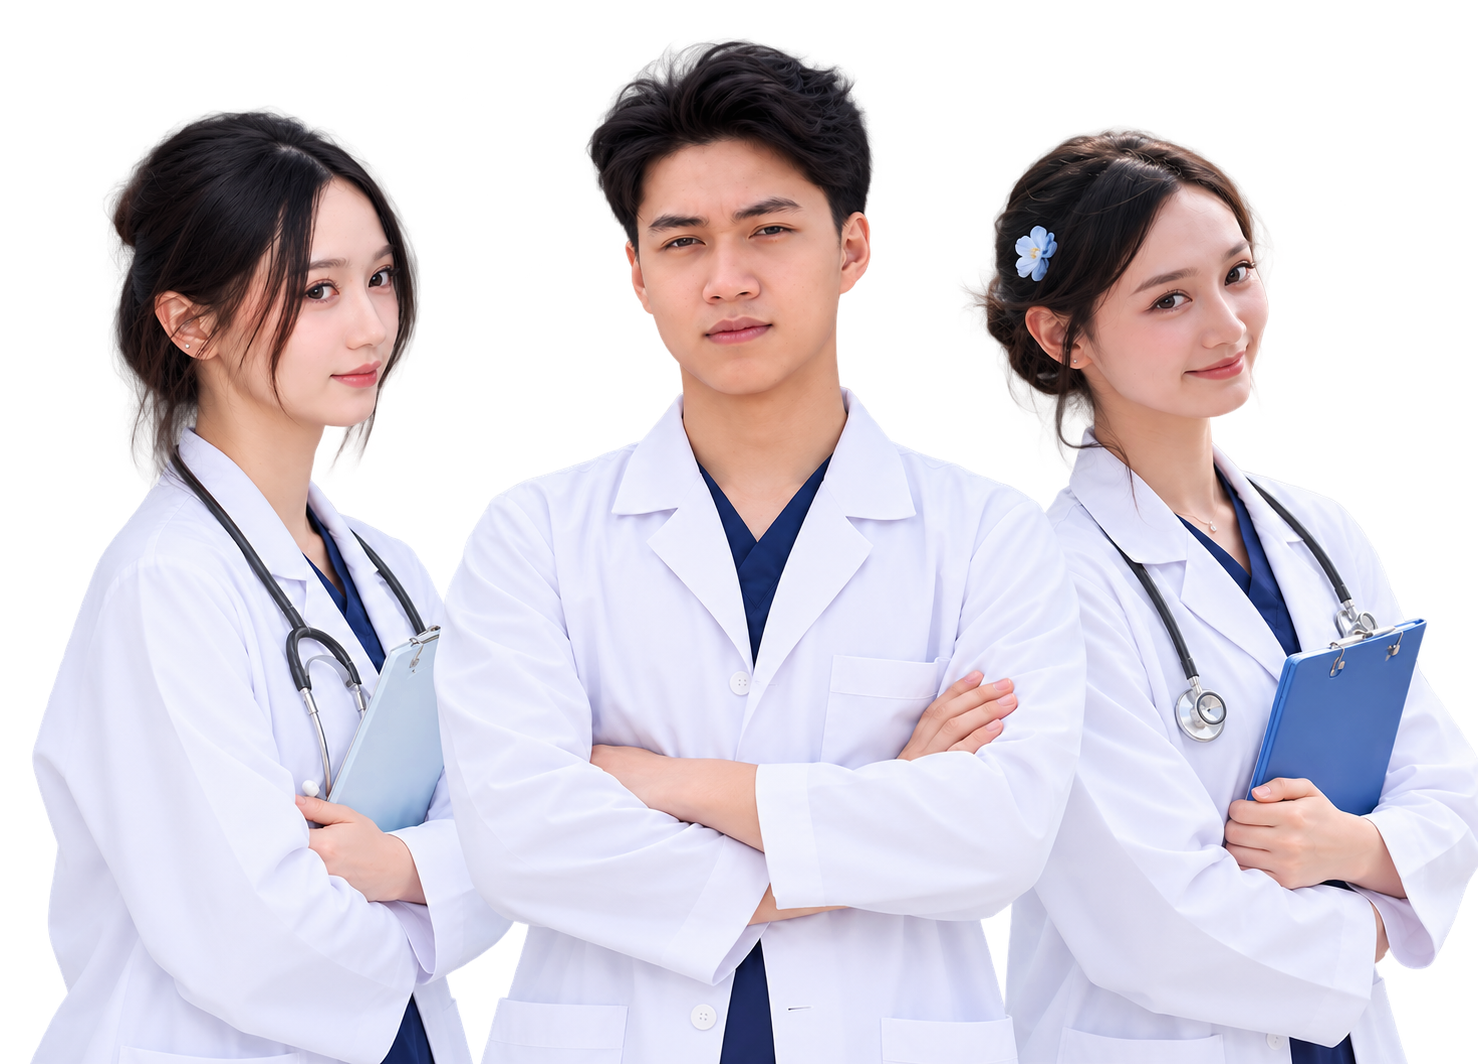
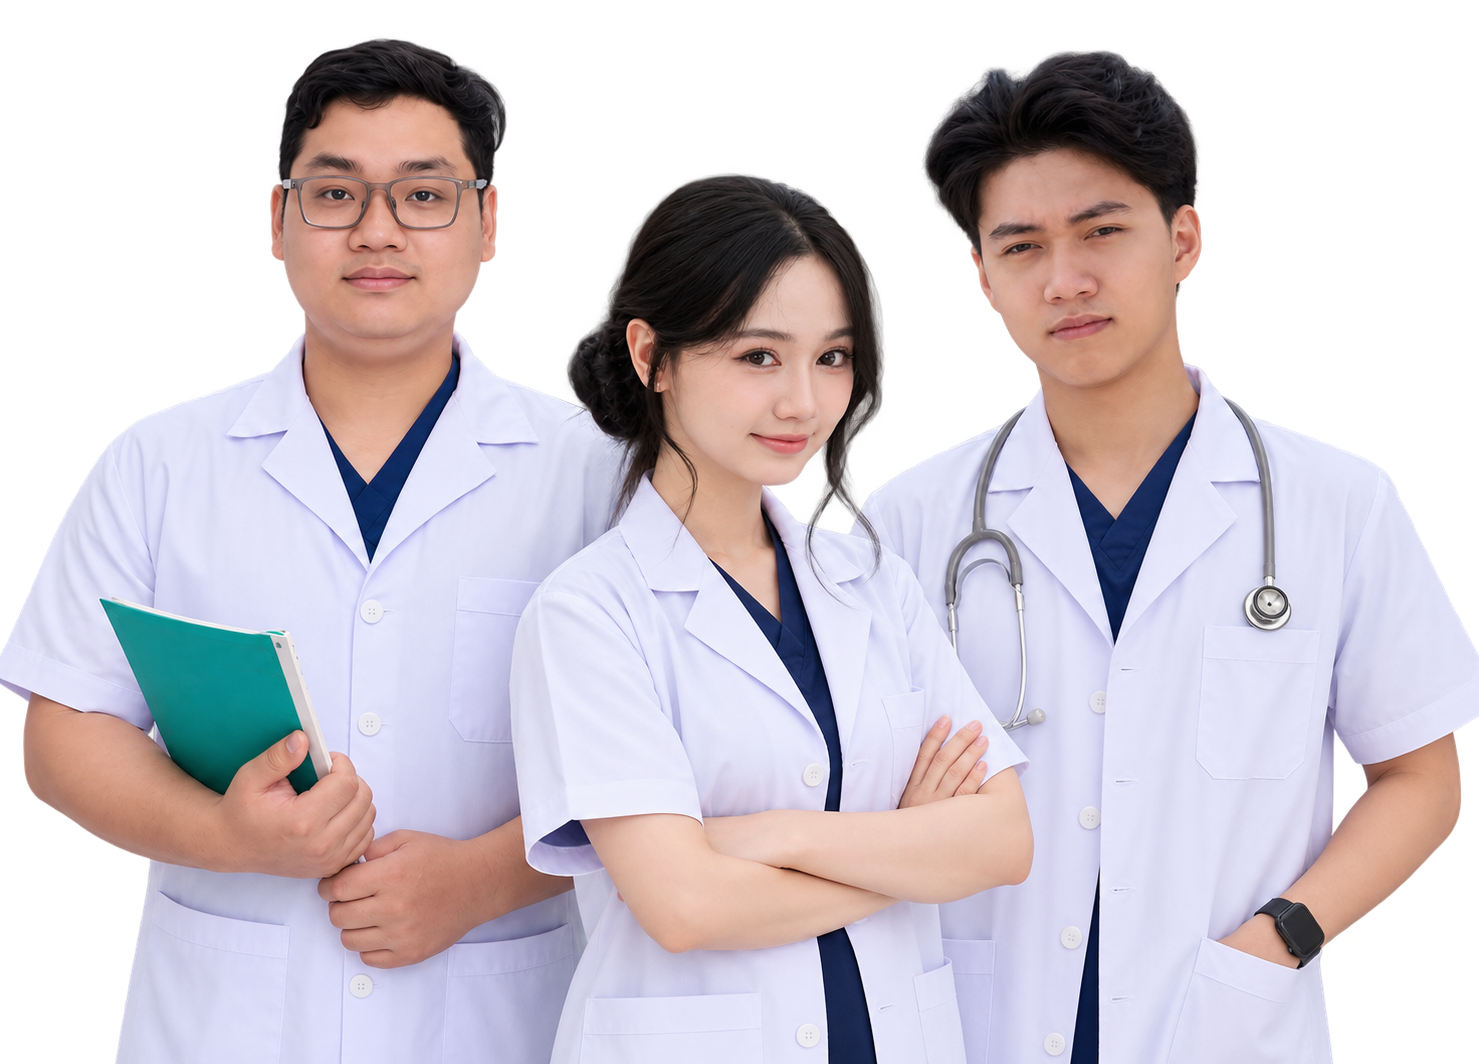
fix img

diff --git a/FE/DEPLOYMENT.md b/FE/DEPLOYMENT.md
@@ -1,6 +1,6 @@
 # Vercel deployment
 
-Production: https://phongkhamtamnhu.vercel.app
+Production: https://phongkhamtamnhu.com
 
 Project dashboard: https://vercel.com/dungtd2504s-projects/phongkhamtamnhu
 
@@ -14,10 +14,13 @@ Run from this directory in PowerShell:
 npm.cmd run typecheck
 npm.cmd run lint
 npm.cmd run build
-vercel.cmd deploy --prod --yes --scope dungtd2504s-projects
 ```
 
-The CLI uploads the current local files. Git-based automatic deployment is not connected.
+After validation, commit and push the changes to `main` in `dungtdhe173304/phong-kham-tam-nhu`. Git-based automatic deployment is connected.
+
+Vercel project settings must use Root Directory `FE`, Framework `Next.js`, Install Command `npm ci`, Build Command `npm run build`, and the default Output Directory. The repository root contains both `BE` and `FE` and must not be deployed as an unconfigured static site.
+
+On 2026-10-08, an empty Git deployment caused a platform-level 404. Production was restored to the verified frontend deployment `dpl_3CG349tdNkgq3F4nAWpkT86SPci4`, and the Git build settings above were applied. The root, contact and training pages returned HTTP 200 after recovery; the `www` redirect remained HTTP 308.
 
 `vercel.json` selects Next.js with `npm ci` and `npm run build`. `.vercelignore` excludes local builds, dependencies, test artifacts, scripts, and environment files.
 
